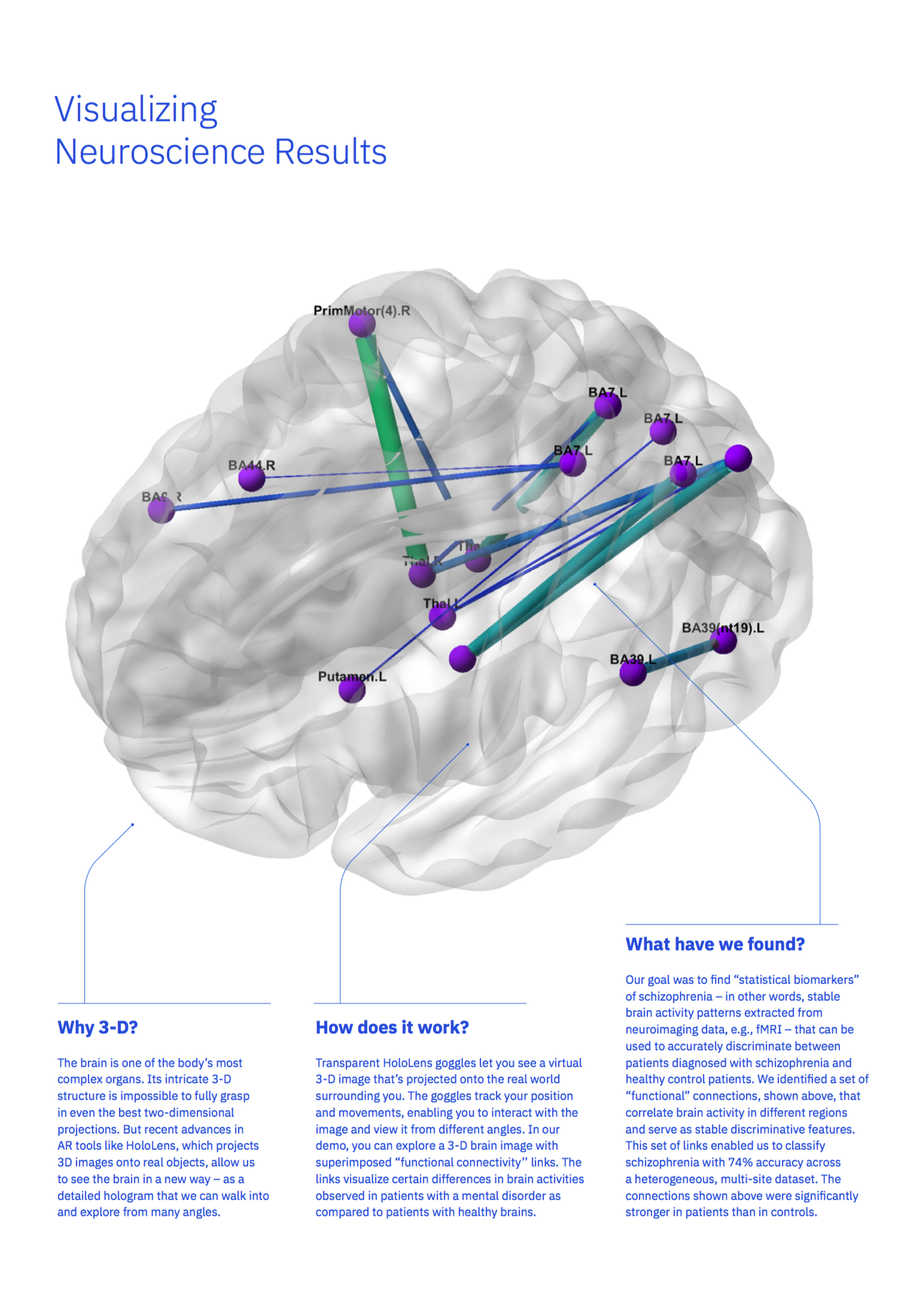
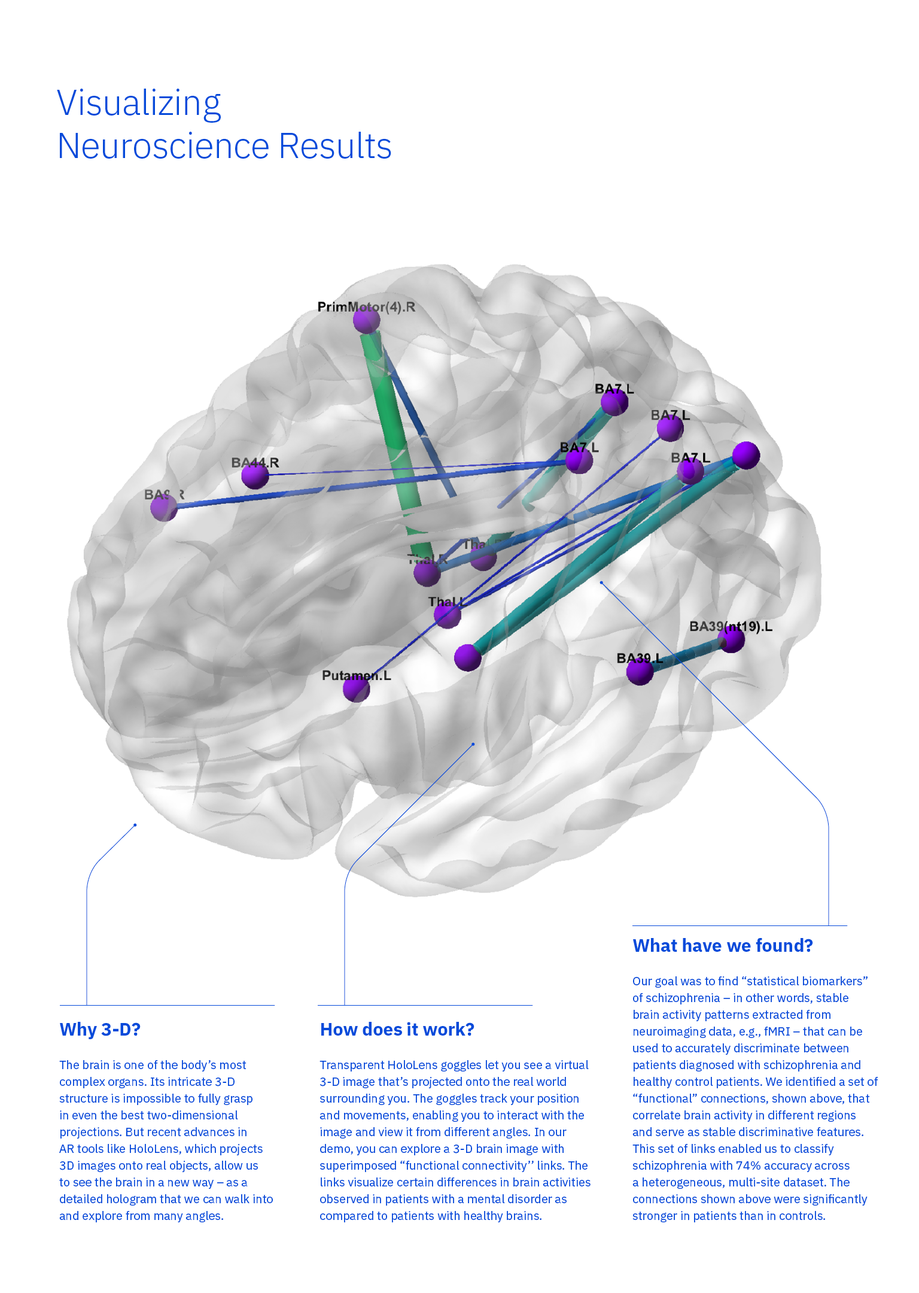
text changes

diff --git a/index.html b/index.html
@@ -36,13 +36,15 @@ and the fundamentals of knowledge representation and discovery.</h2>
 				</li>
 				<li class="color-4" data-topic="topic-4">
 					<h1>AI Engineering</h1>
-					<h2>Researchers and engineers in applied AI, distributed systems, visualization,
-and human-computer interaction making it easier to create scalable AI platforms and tools.</h2>
+					<h2>Creating scalable
+AI platforms and tools
+by leveraging applied
+AI, distributed systems, visualization, and human-computer interaction technologies.</h2>
 					<button class="circle-button expand-column"><img src="./img/arrow.svg"></button>
 				</li>
 				<li class="color-5" data-topic="topic-5">
 					<h1>AI Accelerators</h1>
-					<h2>Partnerships with like-minded people and institutions that pool resources and passions with the mutual goal of pushing the boundaries of artificial intelligence.</h2>
+					<h2>Collaborating with like-minded people and institutions that pool resources and passions with the mutual goal of pushing the boundaries of artificial intelligence.</h2>
 					<button class="circle-button expand-column"><img src="./img/arrow.svg"></button>
 				</li>
 			</ul>
@@ -52,7 +54,7 @@ and human-computer interaction making it easier to create scalable AI platforms 
 						<div class="content-block">
 							<h1 class="normal-font">IBM <span class="bold">Research</span> AI</h1>
 							<p>IBM Research has been exploring AI and machine learning technologies and techniques for decades. We believe AI will transform the world in dramatic ways in the coming years – and we’re advancing the field through our portfolio of research focused on core algorithmic advances, AI platforms and tooling, and unstructured data analysis, including video, language, speech, and knowledge.</p>
-							<p>We’re also working to accelerate AI research through our partnerships, encouraging like-minded institutions and individuals to pool resources and push the boundaries of AI faster – for the benefit of industry and society.</p>
+							<p>We’re also working to accelerate AI research through our collaborations, encouraging like-minded institutions and individuals to pool resources and push the boundaries of AI faster – for the benefit of industry and society.</p>
 						</div>
 						<img class="block-img" src="./img/topic-1.png">
 						<button class="circle-button menu"><img src="./img/arrow-left.svg"></button>
@@ -62,7 +64,7 @@ and human-computer interaction making it easier to create scalable AI platforms 
 					<div class="page-content color-1">
 						<div class="content-block">
 							<h1>AI Science</h1>
-							<p>Our AI Science initiative focuses on expanding the frontiers of artificial intelligence by creating core algorithmic advances. We believe this will inspire the scientific and technical communities, shape the future of AI for business, and expand the types of AI challenges we can solve.</p>
+							<p>Our AI Science initiative focuses on expanding the frontiers of artificial intelligence by creating core algorithmic and neural network advancements. We believe this will inspire the scientific and technical communities, shape the future of AI for business, and expand the types of AI challenges we can solve.</p>
 							<p>AI Science research will address the full spectrum of topics related to machine intelligence and deriving knowledge from data, including: learning, reasoning, the mathematics of AI, the physics of AI, and AI for shared prosperity.</p>
 						</div>
 						<ul class="block-menu">
@@ -81,7 +83,7 @@ and human-computer interaction making it easier to create scalable AI platforms 
 											What is it?
 										</h2>
 										<h3>
-											Using quantum computers to accelerate the efficacy and growth of AI in business and society
+											Using quantum computers to accelerate the efficiency and growth of AI in business and society
 										</h3>
 									</div>
 								</div>
@@ -102,7 +104,7 @@ and human-computer interaction making it easier to create scalable AI platforms 
 											What is it?
 										</h2>
 										<h3>
-											Using machine learning to predict the presence of psychiatric disorders
+											Using machine learning to detect the presence of psychiatric disorders
 										</h3>
 									</div>
 								</div>
@@ -119,9 +121,9 @@ and human-computer interaction making it easier to create scalable AI platforms 
 							<h2>AI Science Project</h2>
 							<h3>Quantum for AI</h3>
 							<h2>What is it?</h2>
-							<h3>Using quantum computers to accelerate the efficacy and growth of AI in business and society</h3>
+							<h3>Using quantum computers to accelerate the efficiency and growth of AI in business and society</h3>
 							<p>AI has advanced substantially in recent years thanks in part to an explosion
-of data. But AI’s potential has been hampered in areas where classical computers are of limited use, like chemistry. We think quantum computers can help. They’re powered by qubits, which use a fundamentally different set of instructions than classical machines, and can run different types of algorithms. These algorithms exploit quantum effects like non-locality, entanglement, superposition, and interference to solve problems exponentially faster than classical machines. Some day, when universal quantum computers contain thousands or millions of qubits, it may be possible to load massive data sets into the machines and create a rich environment for AI to calculate problems currently beyond the realm of consideration. In the short term, we imagine hybrid systems that pair classical computers with a small quantum co-processor to increase the speed of performing certain tasks and to eliminate the bottlenecks in AI’s growth.</p>
+of data. But AI’s potential has been hampered in areas where classical computers are of limited use, like chemistry. We think quantum computers can help. They’re powered by qubits, which use a fundamentally different set of instructions than classical machines, and can run different types of algorithms. These algorithms exploit quantum effects like non-locality, entanglement, superposition, and interference to solve certain problems exponentially faster than classical machines. Some day, when universal quantum computers contain thousands or millions of qubits, it may be possible to load massive data sets into the machines and create a rich environment for AI to calculate problems currently beyond the realm of consideration. In the short term, we imagine hybrid systems that pair classical computers with a small quantum co-processor to increase the speed of performing certain tasks and to eliminate the bottlenecks in AI’s growth.</p>
 						</div>
 						<img class="block-img" src="./img/topic-2-1.png">
 						<!--<button class="circle-button demo" data-href="#">Demo</button>!-->
@@ -134,11 +136,12 @@ of data. But AI’s potential has been hampered in areas where classical compute
 							<h2>AI Science Project</h2>
 							<h3>Visualizing Neuroscience Results</h3>
 							<h2>What is it?</h2>
-							<h3>Using machine learning to predict the presence of psychiatric disorders</h3>
-							<p>As with many afflictions, early treatment of psychiatric disorders tends to improve outcomes, but diagnosis is exceedingly difficult, especially with schizophrenia. There is no reliable test, and spotting differences in brain images is often impossible even for experts. But we think AI can help. In collaboration with the University of Alberta, we used AI and machine-learning algorithms to identify statistical biomarkers, abnormalities
-in the brain’s functional networks, and predict instances of schizophrenia in a series of fMRI images with 74 percent accuracy. The research also shows a new capability to predict the severity of specific symptoms in patients. We believe that AI and machine learning can usher
-in an era of computational psychiatry that will help clinicians quickly assess, and therefore treat, schizophrenia.
-This groundbreaking work also has the potential to help create new avenues and techniques to diagnose and treat other psychiatric disorders, from depression to post-traumatic stress disorder.</p>
+							<h3>Using machine learning to detect the presence of psychiatric disorders</h3>
+							<p>As with many afflictions, early treatment of psychiatric disorders tends to improve outcomes, but diagnosis can be nontrivial, especially with schizophrenia, and is based on subjective assesments rather than on objective measurements. There
+is no reliable objective test, and spotting differences in brain images is often impossible even for experts. But we think AI can help. In collaboration with the University of Alberta, we used AI and machine learning algorithms to identify statistical biomarkers, abnormalities in the brain’s functional networks, and detect instances of schizophrenia in a series of fMRI images with 74 percent accuracy.
+The research also shows a new capability
+to predict the severity of specific symptoms
+in patients. We believe AI and machine learning can usher in an era of computational psychiatry to help clinicians assess, and therefore treat, schizophrenia. This groundbreaking work also has potential to help create new avenues and techniques to diagnose and treat other psychiatric disorders, from depression to PTSD.”</p>
 							<div class="contact-rep">Please see an IBM Researcher to view a demo.</div>
 						</div>
 						<!-- ADD IBM REP THING !-->
@@ -184,7 +187,7 @@ This groundbreaking work also has the potential to help create new avenues and t
 											AI Tech Project
 										</h2>
 										<h3>
-											Moments
+											Moments in Time Dataset
 										</h3>
 									</div>
 									<div>
@@ -209,10 +212,12 @@ This groundbreaking work also has the potential to help create new avenues and t
 							<h3>IBM Debating Technology</h3>
 							<h2>What is it?</h2>
 							<h3>Using AI to create persuasive arguments about thorny issues</h3>
-							<p>IBM Debating Technology is an AI-powered decision-making tool that absorbs massive sets of data and perspectives to address questions that have no clear answer. It uses natural language processing, machine learning, and knowledge graphs to construct a cogent, persuasive argument about complex issues. For example, “Would stricter gun control laws diminish
-mass killings?” or “Should I become a vegetarian?” Unlike search engines, Debating Technology doesn’t reply to a query with a list of documents to read. It absorbs a corpus of data to identify compelling arguments covering various aspects of an issue. This requires
-the both the ability to understand
-the nuances of natural language and to extract powerful evidence from billions of candidates. Big issues are rarely black and white. Using artificial reasoning, Debating Technology creates a passionate viewpoint while dispassionately explaining the other side of the argument. It has the potential to become a powerful ally to anyone faced with making urgent decisions. We imagine it having broad applicability in policy and business. It could even help find the clearest path forward in a user’s life and career.</p>
+							<p>IBM Debating Technology is an AI-powered decision-making research project that absorbs massive data sets and perspectives to address questions that have no clear answer. It uses natural language processing, machine learning, and knowledge graphs to construct persuasive arguments about complex issues. For example, “Would stricter gun control laws diminish mass killings?” or “Should I become
+a vegetarian?” Unlike search engines, Debating Technology doesn’t reply to a query with a list of documents to read. It absorbs a corpus of data to identify compelling arguments covering various aspects of an issue. This requires the both the ability to understand the nuances of natural language and to extract powerful evidence from billions of candidates. Big issues are rarely black and white. In this project, we’re exploring using artificial reasoning
+to create a passionate viewpoint
+while dispassionately explaining the other side of the argument. It has the potential to become a powerful ally
+to anyone faced with making urgent decisions. We imagine a tool with broad applicability in policy and business. It could even help find the clearest path forward in a user’s life and career.
+</p>
 							<div class="contact-rep">Please see an IBM Researcher to view a demo.</div>
 						</div>
 						<img class="block-img" src="./img/topic-3-1.png">
@@ -225,14 +230,16 @@ the nuances of natural language and to extract powerful evidence from billions o
 					<div class="subpage-content color-1">
 						<div class="content-block">
 							<h2>AI Tech Project</h2>
-							<h3>Moments</h3>
+							<h3>Moments in Time Dataset</h3>
 							<h2>What is it?</h2>
 							<h3>Building a large-scale data set for recognizing action in videos</h3>
-							<p>A lot can happen in a moment: A girl kicks a ball in front of a woman walking a dog while a man reads his book on a bench and birds fly overhead. Humans routinely absorb and process the details of such moments and can effortlessly describe objects (girl, ball, birds, book), setting (park) and actions (kicking, walking, reading, flying). But it’s not so easy for computers. Computer vision researchers have made great strides
-in image recognition recently thanks
-to breakthroughs in deep learning, increases in computing power, and the creation of massive labeled datasets
-– namely ImageNet and Places. We want to do the same for action recognition. In collaboration with MIT, we developed Moments, a large-scale dataset containing 1 million 3-second video snippets manually labeled according to the actions they contain. Moments contains 339 verbs and includes activities performed by various actors. For example, opening. People open doors and books. Dogs open
-their mouths. Flowers open petals. We believe Moments will spawn an array of applications in healthcare, automotive, entertainment, and elsewhere. We hope it will foster new research and help to further unlock the promise of AI.</p>
+							<p>A lot can happen in a moment: A girl kicks a ball in front of a woman walking a dog while a man reads his book
+on a bench and birds fly overhead. Humans routinely absorb and process the details of such moments and can effortlessly describe objects (girl, ball, birds, book), setting (park) and actions (kicking, walking, reading, flying).
+But it’s not so easy for computers. Computer vision researchers have made great strides in image recognition recently thanks to breakthroughs in deep learning, increases in computing power, and the creation of massive labeled datasets – namely ImageNet and Places. We want to do the same for action recognition. As part of our MIT IBM Watson AI Lab, we developed the Moments in Time Dataset, a large-scale dataset containing 1 million 3-second video snippets manually labeled according to the actions they contain.
+It includes 339 activities, many of which are performed by various actors.
+For example, people opening doors
+and books. Dogs opening their mouths. Flowers opening petals. We believe
+the Dataset will spawn an array of applications in healthcare, automotive, entertainment, foster new research, and help to further unlock the promise of AI.</p>
 						</div>
 						<img class="block-img" src="./img/topic-3-2.png">
 						<button class="circle-button demo" data-href="http://moments.csail.mit.edu/index_test.html">Demo</button> <!-- HAVE A LINK !-->
@@ -243,7 +250,7 @@ their mouths. Flowers open petals. We believe Moments will spawn an array of app
 					<div class="page-content color-1">
 						<div class="content-block">
 							<h1>AI Engineering</h1>
-							<p>Our AI Engineering initiative works on making it easier and more seamless to build scalable AI platform capabilities and tools. We combine researchers and engineers with deep expertise in applied AI, distributed systems, visualization and human-computer interaction, and regularly publish our work and contribute to open-source AI venues.</p>
+							<p>Our AI Engineering initiative works on making it easier and more seamless to build scalable AI platform models, capabilities, and tools. This work brings together researchers and engineers with deep expertise in applied AI, distributed systems, visualization, and AI model tuning, who regularly publish their work and contribute to open-source community.</p>
 						</div>
 						<ul class="block-menu">
 							<li>
@@ -300,11 +307,13 @@ their mouths. Flowers open petals. We believe Moments will spawn an array of app
 							<h2>What is it?</h2>
 							<h3>A one-stop shop to test machine learning and deep learning models and software</h3>
 							<p>New open-source machine learning
-and deep learning models, platforms, and hardware system accelerators are cropping up almost every day. These resources can greatly spur innovation – if they can be easily tested and compared. It’s often necessary to follow many pages of documentation to install one ML or
-DL framework. Then there’s the arduous process required to download and use a particular model – and the complexity of navigating hardware configurations and software installations and dependencies. MLModelScope aims to simplify this process by enabling developers, builders, and users to quickly find, test, deploy, and benchmark combinations of models, frameworks and configurations. It’s an open-source platform designed to spur AI innovation. Developers can publish and evaluate ML/DL models. Users can experiment with published models and frameworks. IT architects can profile and benchmark system resource utilization to improve operating efficiency for running ML/DL workloads. Hardware builders can understand system characteristics and bottlenecks to improve designs.</p>
+and deep learning models, frameworks, platforms, and hardware system accelerators are cropping up almost every day. These resources can greatly spur innovation – if they can be easily tested and compared. It’s often necessary to follow many pages of documentation to install one ML or DL framework. Then there’s the arduous process required to download and use a particular model – and the complexity of navigating hardware con gurations and software installations and dependencies. As part of AI Horizons Network, we’ve created MLModelScope to simplify this process together with
+our colleagues from University of Illinois Urbana-Champaign. It’s an open-
+source platform built to spur innovation
+by enabling developers, builders, and users to quickly find, test, deploy, and benchmark combinations of models, frameworks, and hardware con gurations. It makes it easier to publish and evaluate ML/DL models and experiment with existing models and frameworks. IT architects can benchmark system resource utilization to improve operating ef ciency. Hardware builders can understand system bottlenecks to improve designs.</p>
 						</div>
 						<img class="block-img" src="./img/topic-4-1.png">
-						<button class="circle-button demo" data-href="http://mlmodelscope.org/">Demo</button>
+						<button class="circle-button demo mlmodelscope-button" data-href="http://mlmodelscope.org/">Demo</button>
 						<button class="circle-button topic-main"><img src="./img/arrow-left.svg"></button>
 					</div>
 				</li>
@@ -315,7 +324,7 @@ DL framework. Then there’s the arduous process required to download and use a 
 							<h3>Watson Discovery Visual Insight</h3>
 							<h2>What is it?</h2>
 							<h3>Finding the big picture in billions of pictures</h3>
-							<p>Every day billions of videos and images are uploaded to the top five social media sites alone. This massive data flow contains invaluable insights for anyone trying to understand customer sentiment, competitor activity, the eficacy of advertising campaigns, or trends in
+							<p>Every day billions of videos and images are uploaded to the top five social media sites alone. This massive data flow contains invaluable insights for anyone trying to understand customer sentiment, competitor activity, the efficacy of advertising campaigns, or trends in
 the marketplace. Of course the trick is identifying signals in all that visual noise. That’s where Watson Discovery Visual Insight comes in. Visual Insight is built on Watson Discovery Service, which finds patterns in massive amounts of data, whether public or private, structured or unstructured. Discovery uses natural language processing to ingest and normalize data into a common format and sentiment analysis and concept tagging to enrich and index it. Visual Insight takes that process to imagery, analyzing posts to infer attributes related to interest, hobbies, people, and places. It creates
 a comprehensive view of what users are communicating. Visual Insight could help measure brand perception in social media and enable the development of consistent messages across outlets. Companies
 can even use it to find customers going through life events. It’s built to help find the big picture in billions of little ones.</p>
@@ -329,7 +338,7 @@ can even use it to find customers going through life events. It’s built to hel
 					<div class="page-content color-1">
 						<div class="content-block">
 							<h1>AI Accelerators</h1>
-							<p>We’re committed to accelerating AI research through partnerships where like-minded institutions and individuals pool resources with the mutual goal of pushing the boundaries of AI.</p>
+							<p>We’re committed to accelerating AI research through collaborations where like-minded institutions and individuals pool resources with the mutual goal of pushing the boundaries of AI.</p>
 						</div>
 						<ul class="block-menu">
 							<li>
@@ -347,7 +356,7 @@ can even use it to find customers going through life events. It’s built to hel
 											What is it?
 										</h2>
 										<h3>
-											Partnering with world-class institutions to push the boundaries of AI
+											Collaborating with world-class institutions to push the boundaries of AI
 										</h3>
 									</div>
 								</div>
@@ -368,7 +377,7 @@ can even use it to find customers going through life events. It’s built to hel
 											What is it?
 										</h2>
 										<h3>
-											The world’s premier scientific research institutions co-creating the future of AI
+											Two premier scientific research institutions co-creating the future of AI
 										</h3>
 									</div>
 								</div>
@@ -388,8 +397,7 @@ can even use it to find customers going through life events. It’s built to hel
 										<h2>What is it?</h2>
 										<h3>IBM Researchers, world-class faculty, and top graduate students collaborating on a series of advanced AI projects</h3>
 										<p>MIT. RPI. University of Michigan.
-UC San Diego. Université de Montréal. University of Illinois Urbana-Champaign. When it comes to corporate-academic collaborations, we have the luxury of choosing our partners from among the world’s nest institutions. Together, we’ve formed the AI Horizons Network to work on a series of advanced AI projects and experiments. We’re working on some of the world’s most enduring challenges, ranging from disease and environmental damage to transportation and education. We’re developing machines to emulate the human ability to understand inputs from multiple video streams and predict future events in real time. We’re working to enable more natural, effective human-computer interatcion through text and speech. We’re developing AI solutions to enable the elderly to live independently for longer and to advance the understanding of chronic conditions. We’re addressing the whole computing stack, from analyzing unstructured and structured data to building new infrastructures optimized
-for the data-intensive workloads of a truly digital world.</p>
+UC San Diego. Université de Montréal. University of Illinois Urbana-Champaign. University of Maryland Baltimore County. When it comes to corporate-academic collaborations, we have the luxury of choosing our partners from among the world’s finest institutions. In doing so, we’ve formed the AI Horizons Network to work on a series of advanced AI projects and experiments. We’re taking on some of the world’s most enduring challenges, ranging from disease and environmental damage to hardware acceleration and education. Our initiatives include developing machines to emulate the human ability to understand inputs from multiple video streams, and enabling more natural human-computer interaction. Together we’re building AI solutions to help the elderly live independently for longer and to advance the understanding of chronic conditions. Improving the entire computing stack is in our sights, from analyzing unstructured and structured data to building infrastructures optimized for the data-intensive workloads of a truly digital world.</p>
 									</div>
 									<img class="block-img" src="./img/topic-5-2.png">
 									<!--<button class="circle-button demo" data-href="#">Demo</button>!-->
@@ -402,9 +410,10 @@ for the data-intensive workloads of a truly digital world.</p>
 										<h2>AI Accelerators</h2>
 										<h3>The MIT-IBM Watson AI Lab</h3>
 										<h2>What is it?</h2>
-										<h3>Two of the world’s premier scientific research institutions co-creating the future of AI</h3>
-										<p>The MIT-IBM Watson AI Lab consists of two renowned institutions working to create breakthroughs that accelerate the growth and eficacy of AI systems. We focus on four key pillars: the development of core learning and reasoning algorithms; using a mastery of physics to create AI-tailored computational innovations; developing AI applications in particular domains; and harnessing AI to achieve shared prosperity. We want to move AI systems toward more general approaches and more complex problems. We’re exploring how to use AI to harness big data and limited data. We’re testing new materials and architectures for analog
-			AI computation, and exploring the nexus of quantum computing and machine learning. We’re making inroads for AI to solve crucial problems in healthcare and security – and we’re committed to using AI to achieve broad economic and societal bene ts. Our goal is to build AI systems that can detect and mitigate human biases, that explain how they come to their conclusions, that complement humanity, and that distribute productivity gains across firrms, workers, and consumers.</p>
+										<h3>Two premier scientific research institutions co-creating the future of AI</h3>
+										<p>The MIT IBM Watson AI Lab consists of two renowned institutions working to create breakthroughs that accelerate
+the growth of AI systems. We focus on four key pillars: the development of core learning and reasoning algorithms; using a mastery of physics to create AI-tailored computational innovations; developing AI applications in particular domains; and harnessing AI to achieve shared prosperity. The lab’s overarching goal is to move AI systems toward more general approaches and more complex problems. Achieving that goal requires exploring how to use AI to harness big data and limited data, testing new materials and architectures for analog AI computation, and exploring the nexus of quantum computing and machine learning. We want to make inroads for AI in healthcare and security – and use AI to achieve broad economic and societal bene ts. We envision future AI systems that can detect and mitigate human biases, that explain how they come to their conclusions, that complement humanity, and that distribute productivity gains across  firms, workers, and consumers.</p>
+										
 									</div>
 									<img class="block-img" src="./img/topic-5-1.png">
 									<!--<button class="circle-button demo" data-href="#">Demo</button>!-->

diff --git a/css/main.css b/css/main.css
@@ -14,6 +14,7 @@ html {
 
 			.columns h2, .page-content p {
 				line-height:1.33em;
+				font-weight:200;
 			}
 			.page-content p {
 				color:#848484;
@@ -171,12 +172,18 @@ html {
 				margin-bottom:1.25em;
 			}
 			.title-card h2{
+				display:none;
 				font-size:0.5em;
 				font-weight:500;
 				margin-bottom:0.40em;
 			}
+			.title-card > div:first-of-type h3{
+				font-weight:500;
+				width:auto;
+			}
 			.title-card h3 {
-				width:48%;
+				width:46%;
+				font-weight:200;
 				line-height:1.25em;
 			}
 			.title-card > div {
@@ -212,6 +219,7 @@ html {
 
 			}
 			.subpage-content .content-block h2 {
+				display:none;
 				font-size:0.66em;
 				margin-bottom:0.33em;
 				color:#848484;
@@ -219,6 +227,7 @@ html {
 			.subpage-content .content-block h3 {
 				font-size:1.865em;
 				width:66%;
+				font-weight:200;
 				line-height:1.125em;
 				margin-bottom:0.865em;
 			}
@@ -233,7 +242,7 @@ html {
 			}
 			.page-content .content-block p {
 				width:62%;
-				font-weight:400;
+				font-weight:200;
 				line-height:1.33em;
 			}
 			.main-menu .circle-button {

diff --git a/js/main.js b/js/main.js
@@ -39,6 +39,12 @@ $(document).ready(function(){
 				}
 			})
 		})
+		$('.mlmodelscope-button').unbind('click').bind('click',function(e){
+			e.preventDefault();
+			window.open('http://mlmodelscope.org/');
+			window.open('http://mlmodelscope.org/swagger/');
+			window.open('http://52.44.160.49:16686/search');
+		})
 		$('.demo').unbind('click').bind('click',function(){
 			window.open($(this).attr('data-href'));
 		})
